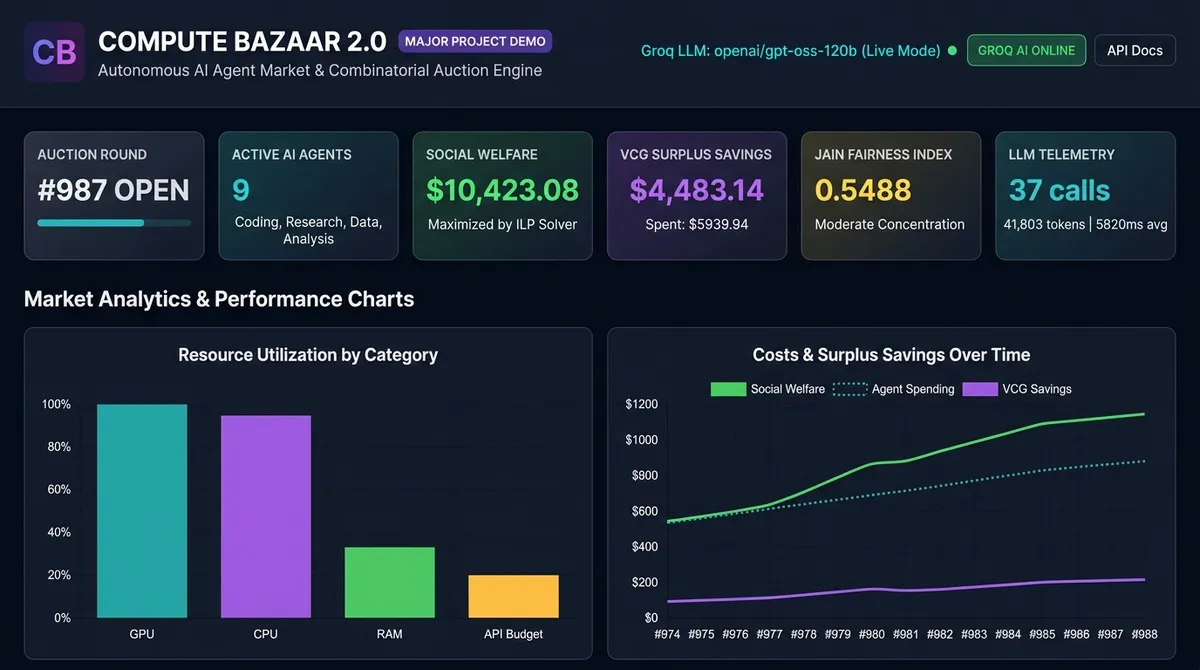
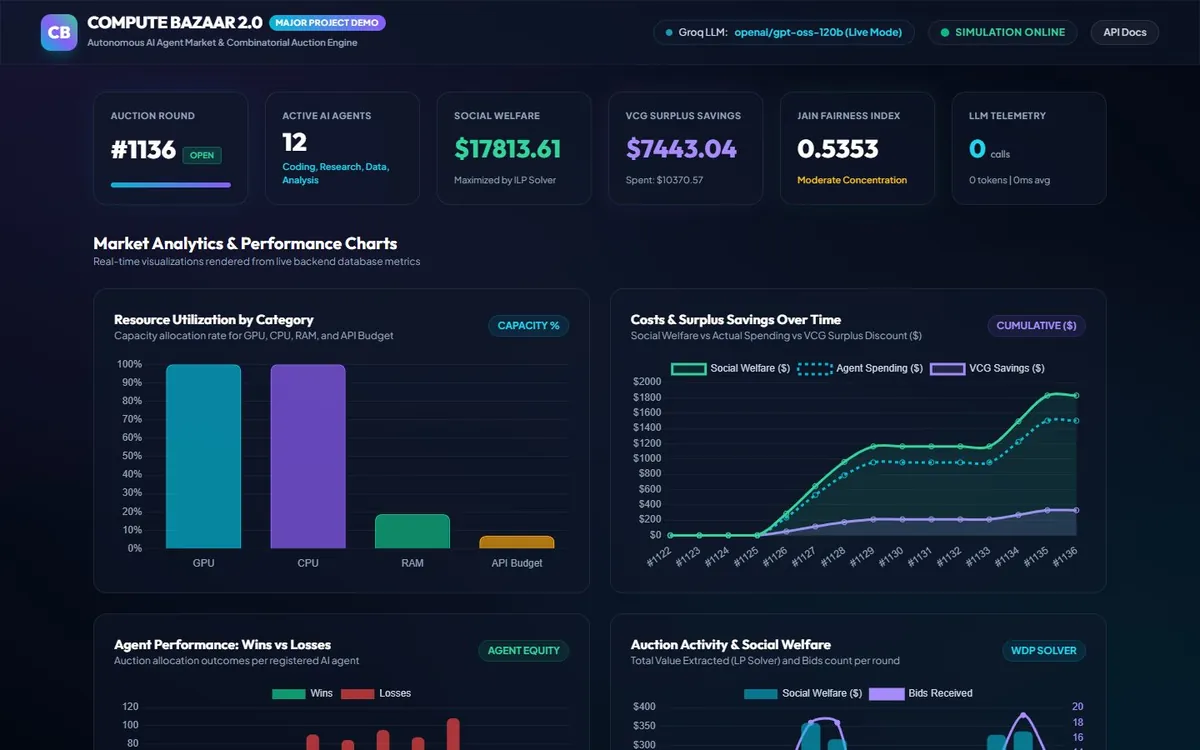
Compute Bazaar now describes the latest version of the repository
Estimated-value mechanisms, agent-level VCG with XOR menus, adaptive bidding,
scarcity pricing and the learned predictor replace the old 25-round summary,
with current results, their caveats and fresh dashboard screenshots.

diff --git a/src/data/projects.ts b/src/data/projects.ts
@@ -1,7 +1,8 @@
 import type { Project } from '@/types/content';
 
 /**
- * The six project planets, in the fixed order from the blueprint.
+ * The project planets: the six from the blueprint in their fixed order (GateOrchestra first),
+ * followed by later projects.
  * Every claim here was checked against the repository — see docs/PROJECT_AUDIT.md.
  */
 export const projects: Project[] = [
@@ -199,45 +200,58 @@ export const projects: Project[] = [
     id: 'compute-bazaar',
     order: 5,
     name: 'Compute Bazaar',
-    tagline: 'A combinatorial auction market where AI agents bid for compute',
+    tagline: 'A combinatorial compute market for LLM agents that only estimate what their tasks are worth',
     repo: 'https://github.com/MuzraFatima/Compute-bazar',
     team: false,
     overview:
-      'An AI-agent compute marketplace where agents place budget-aware bundle bids for GPU, CPU, RAM and API budget, and allocation is solved as a combinatorial auction with VCG pricing.',
+      'A multi-agent marketplace where autonomous AI agents bid for bundles of GPU, CPU, memory and LLM API budget. Allocation is solved exactly as a multi-unit combinatorial auction with agent-level VCG pricing, and the mechanism is redesigned for the case LLM bidders create: values that are estimated, not known.',
     problem:
-      'Queue-based schedulers block high-value jobs behind early arrivals, and per-unit spot markets can leave agents holding half a bundle they cannot use.',
+      'AI agents increasingly compete for the same scarce compute. Queues and per-unit spot markets block high-value jobs or leave agents holding half a bundle, and classic truthful auctions assume bidders know their own value, which LLM agents do not.',
     solution:
-      'Treat allocation as a winner-determination problem solved by binary integer linear programming, with VCG Clarke-pivot pricing so truthful bidding pays off, plus fairness tracking against starvation.',
+      "Solve winner determination exactly with integer programming, charge agent-level VCG (a Clarke pivot over all of an agent's bids), and let each task bid a calibrated, risk-adjusted XOR menu of reservation sizes priced at calibrated value × empirical success probability.",
     architecture: [
-      'Agent layer: Coding, Research, Data and Analysis agents with optional Groq reasoning',
-      'Auction engine: PuLP / CBC ILP solver and VCG pricing',
-      'Marketplace with scarcity pricing and a fairness tracker',
-      'FastAPI gateway with JWT / API-key auth and a WebSocket feed',
-      'SQLAlchemy persistence and a Chart.js dashboard',
+      'LLM agents (Groq): value estimate and resource-need forecast with 90% intervals',
+      'Bids: resource bundles with quantities and optional XOR menus of reservation sizes',
+      'Winner determination: exact multi-unit integer program (PuLP with CBC or HiGHS)',
+      'Pricing: agent-level VCG, execution-contingent VCG, core-selecting payments, tiers and reserves',
+      'Feedback: realised value and usage drive per-agent calibration, memory and fairness tracking',
+      'Serving: FastAPI, SQLAlchemy and WebSocket feeding a live dashboard',
     ],
     technologies: [
       'Python',
       'FastAPI',
       'Groq',
       'PuLP (ILP)',
-      'WebSocket',
+      'NumPy',
       'SQLAlchemy',
+      'WebSocket',
+      'JWT',
       'Chart.js',
       'Docker',
       'pytest',
+      'Hypothesis',
     ],
     features: [
-      'Atomic bundle bids, so no agent is left with a partial allocation',
-      'VCG pricing with adaptive bidding strategies',
-      'Jain fairness index and anti-starvation guards',
-      'In a seeded 25-round simulation, the highest social welfare and utilisation of five schedulers (38% above round-robin)',
-      'Live WebSocket dashboard with a bidding ticker and round history',
+      'Autonomous Groq-powered Coding, Research, Data and Analysis agents that estimate value and bid; a rule-based mode runs offline',
+      'Exact combinatorial auction with XOR menus; winner determination stays around a second at 400 bids',
+      'Agent-level VCG with 0 profitable deviations in 40,000 misreport searches, against 7.3% exploitable for the common per-bid shortcut',
+      'Adaptive bidding strategies: truthful, budget-aware shading, urgency, Q-learning and contextual bandits',
+      'Scarcity-based dynamic reserve pricing, tier discounts and budget checks',
+      'Learned resource predictor: runtime error down from 232% to 21.7% MAPE, with 90% intervals covering 89% of outcomes',
+      'Live FastAPI dashboard over WebSocket, with JWT and API-key authentication',
+      'Evaluation framework: trace-driven cluster simulator, property-based mechanism tests and one-command reproduction',
     ],
-    contribution: ['Sole author: auction engine, agents, API, dashboard and benchmarks'],
+    contribution: [
+      'Sole author: auction engine and mechanism design, LLM agents, resource predictor, cluster simulator, API, dashboard and experiments',
+    ],
     images: [
       {
         src: `${import.meta.env.BASE_URL}assets/images/projects/computebazaar-hero.webp`,
-        alt: 'Compute Bazaar dashboard with live market metrics and utilisation charts',
+        alt: 'Compute Bazaar live dashboard with market KPIs and analytics',
+      },
+      {
+        src: `${import.meta.env.BASE_URL}assets/images/projects/computebazaar-charts.webp`,
+        alt: 'Compute Bazaar market charts',
       },
       {
         src: `${import.meta.env.BASE_URL}assets/images/projects/computebazaar-ticker.webp`,
@@ -246,6 +260,62 @@ export const projects: Project[] = [
     ],
     palette: ['#fb923c', '#9333ea', '#3b82f6'],
     visual: 'Interplanetary compute marketplace: resource stations and agent bidding displays.',
+    deepDive: {
+      whyItMatters:
+        'As more work is done by LLM agents, compute becomes something agents negotiate for. A mechanism that is truthful on paper can lose welfare or break individual rationality once its bidders misjudge their own value, so the allocation rules have to be designed for estimated values.',
+      pipeline: [
+        { label: 'Task', detail: 'A natural-language task arrives' },
+        { label: 'LLM agent', detail: 'A Groq agent estimates value and resource needs with a 90% interval' },
+        { label: 'Bids', detail: 'Bundles × quantities, optionally an XOR menu of reservation sizes' },
+        { label: 'Winner determination', detail: 'Exact multi-unit integer program (PuLP, CBC / HiGHS)' },
+        {
+          label: 'Pricing',
+          detail: 'Agent-level VCG with parallel counterfactual solves, reserves and tiers',
+        },
+        { label: 'Execution', detail: 'Realised value and usage update calibration, memory and fairness' },
+        { label: 'Dashboard', detail: 'FastAPI, SQLAlchemy and a WebSocket feed to the live dashboard' },
+      ],
+      methodology: [
+        'Winner determination as a binary integer program with capacity and XOR constraints',
+        'Clarke-pivot VCG computed per agent, with counterfactual solves run in parallel',
+        'Calibrated value estimates and empirical success probabilities feeding risk-adjusted XOR menus',
+        'Learning bidders (Hedge, Q-learning, contextual bandits) and live Groq LLM bidders in repeated auctions',
+        'Trace-shaped GPU cluster simulation (Alibaba-PAI-like workloads) against FIFO, DRF and a Themis-style scheduler',
+      ],
+      innovations: [
+        "Shows that only the heterogeneous part of agents' value bias costs welfare",
+        'Risk-adjusted XOR menus, which provably maximise expected realised welfare',
+        'A correct agent-level VCG, with evidence that the common per-bid shortcut is manipulable',
+        'A fairness knob (an affine maximiser) that trades welfare for finish-time fairness while staying truthful',
+      ],
+      results: [
+        {
+          value: '78.0%',
+          label: 'of oracle welfare with calibrated XOR menus',
+          note: 'vs 72.1% for VCG on point estimates; 3 seeds × 200 rounds',
+        },
+        { value: '0 of 40,000', label: 'profitable misreports under agent-level VCG' },
+        {
+          value: '7 policies',
+          label: 'compared on GPU traces; the auction has the highest welfare',
+          note: 'its margin over greedy is within seed variance',
+        },
+        { value: '21.7%', label: 'MAPE of the learned resource predictor', note: 'down from 232%' },
+      ],
+      status: {
+        implemented: [
+          'Working system: FastAPI backend, live dashboard, rule-based and Groq agent modes',
+          'Auction engine with VCG, execution-contingent and core-selecting payments; resource predictor; cluster simulator',
+          'One-command reproduction of every result; lint and tests in CI on Python 3.11 and 3.12',
+        ],
+        research: ['Paper draft with propositions and proofs'],
+        limits: [
+          'The estimated-value agents are a parametric model of LLM miscalibration, and the cluster workload is calibrated to the PAI trace rather than replayed',
+          'The live LLM study is small because of Groq free-tier limits',
+          'Single-node deployment (SQLite by default)',
+        ],
+      },
+    },
   },
   {
     id: 'jocky',
@@ -284,6 +354,123 @@ export const projects: Project[] = [
     images: [],
     palette: ['#ef4444', '#1e3a8a', '#cbd5e1'],
     visual: 'Digital investigation station: evidence vaults, integrity scanner and telemetry displays.',
+  },
+  {
+    id: 'horizonguard',
+    order: 7,
+    name: 'HorizonGuard',
+    tagline: 'Recoverability-aware early warning of goal drift in long-horizon AI agents',
+    repo: 'https://github.com/MuzraFatima/HorizonGuard',
+    team: false,
+    overview:
+      'An AI-safety research system that watches a long-running agent step by step, forecasts whether it is drifting from its goal, and predicts whether a corrective intervention would rescue the run or disrupt it. It acts only when the rescue wins, and certifies how often its own interventions cause harm.',
+    problem:
+      'Agents on long tasks can drift away from their intended goal. Most monitors only predict failure, and an accurate predictor can still make agents worse: a reminder fired at the wrong moment can break a run that was going to succeed.',
+    solution:
+      'Model each run as moving between aligned, drifting and violated states, predict for every intervention strength whether it would rescue or disrupt the run, take the action with the best rescue − 2 × disruption (or wait), and bound the disruption rate with conformal risk control.',
+    architecture: [
+      'Trajectory logging: observable step records from the agent',
+      'Step encoder: feature-hashing action embeddings with goal-relative geometry',
+      'Multi-state hazard model: drift onset, violation and recovery as competing transitions',
+      'Effect model: rescue vs disruption for four intervention strengths',
+      'Certificates: conformal risk control, Learn-then-Test and a betting e-process',
+      'Serving: a live monitor and HTTP API, with a React and Vite dashboard',
+    ],
+    technologies: [
+      'Python',
+      'NumPy',
+      'SciPy',
+      'PyYAML',
+      'React',
+      'TypeScript',
+      'Vite',
+      'pytest',
+      'Puppeteer',
+      'Docker',
+    ],
+    features: [
+      'DriftBench-CF: counterfactual fork labels in which every arm shares the same seeds, so rescue and disruption are measurable for each prefix',
+      'Live monitor that turns each step into risk, drift belief, net benefit per intervention and a certified decision',
+      'Effect-aware policy choosing between a reminder, restatement, constraint gate or escalation, or waiting',
+      'Disruption-controlled guarantees: 0 of 200 resamples above the target rate, keeping 96% of rescues',
+      'Transfer tests on unseen agent families and environments, plus a gated stealth-drift stress test in simulation',
+      'Dashboard with live monitor, run replay, closed-loop A/B and guarantees pages; 218 Python tests and a Chrome end-to-end suite',
+    ],
+    contribution: [
+      'Sole author: benchmark and fork engine, models, guarantees, live monitor, dashboard and the preregistered study',
+    ],
+    images: [
+      {
+        src: `${import.meta.env.BASE_URL}assets/images/projects/horizonguard-overview.webp`,
+        alt: 'HorizonGuard dashboard overview with closed-loop A/B results',
+      },
+      {
+        src: `${import.meta.env.BASE_URL}assets/images/projects/horizonguard-live-monitor.webp`,
+        alt: 'HorizonGuard live monitor scoring an agent step by step',
+      },
+      {
+        src: `${import.meta.env.BASE_URL}assets/images/projects/horizonguard-ab-test.webp`,
+        alt: 'HorizonGuard closed-loop A/B test across seed-paired runs',
+      },
+    ],
+    palette: ['#d9b26a', '#4f6f41', '#f3e2b3'],
+    visual: 'A ringed sentinel world with watch satellites: an observatory for drifting agents.',
+    deepDive: {
+      whyItMatters:
+        'Long-horizon agents are being given more autonomy, and a monitor that interrupts at the wrong time can cause the very failures it is meant to prevent. Knowing when an intervention helps, and bounding how often it harms, is what makes monitoring safe to deploy.',
+      pipeline: [
+        { label: 'Agent', detail: 'A long-horizon agent acts in an environment' },
+        { label: 'Trajectory log', detail: 'Observable step records only: a black-box view of the agent' },
+        { label: 'Embeddings', detail: 'Feature-hashing step encoder and goal-relative geometry' },
+        { label: 'Hazard model', detail: 'Aligned, drifting and violated states, with recovery' },
+        { label: 'Effect model', detail: 'Rescue vs disruption for each intervention strength' },
+        {
+          label: 'Certificate',
+          detail: 'Disruption risk ≤ α via conformal risk control and Learn-then-Test',
+        },
+        { label: 'Policy', detail: 'Intervene only when rescue − 2 × disruption is best; otherwise wait' },
+      ],
+      methodology: [
+        'Fork engine: snapshot a run prefix and branch seed-paired continuations with and without each intervention',
+        'Sequential, per-step scoring of agent trajectories from black-box action embeddings',
+        'Temporal modelling of drift onset, violation and recovery as a multi-state hazard',
+        'Effect learners that predict rescue and disruption per intervention strength',
+        'Conformal risk control and Learn-then-Test on run-level disruption, plus an e-process for time-uniform false alarms',
+        'Models written from scratch in NumPy and SciPy (logistic, softmax and ridge regression), compared with Markov, trajectory-feature and anomaly-detection baselines',
+      ],
+      innovations: [
+        'Asks not only "will this agent drift?" but "is it still fixable, and will fixing it help more than it hurts?"',
+        'Counterfactual rescue and disruption labels from seed-paired forks',
+        "A certified bound on how often the monitor's own interventions cause harm",
+        'Preregistered research questions, with negative results reported alongside the positive ones',
+      ],
+      results: [
+        {
+          value: '65% → 10%',
+          label: 'goal-violation rate, no monitor vs HorizonGuard',
+          note: 'unseen environment and agent family, 40 seeds; a probability-only alarm reaches 40%',
+        },
+        { value: '25 vs 11', label: 'runs rescued vs a probability-only alarm', note: '3 vs 1 disrupted' },
+        { value: '0 of 200', label: 'resamples above the disruption target', note: '96% of rescues kept' },
+        { value: '0.03', label: 'median AUROC drop on unseen agent families' },
+      ],
+      status: {
+        implemented: [
+          'DriftBench-CF generation, fork engine, hazard and effect models, certificates, transfer and stress studies',
+          'Live monitor, HTTP API and dashboard; one-command reproduction with a Makefile and Docker',
+          '218 Python tests in CI on Python 3.10 and 3.12, and a Chrome end-to-end suite for the dashboard',
+        ],
+        research: [
+          'Learned (sentence-embedding) action encoders: the encoder interface is in place, while the shipped encoder uses feature hashing',
+          'Validation on real LLM agents: a seeded, cached LLM-agent wrapper exists, but every reported result uses synthetic agents',
+          'Benchmark and method papers, in draft',
+        ],
+        limits: [
+          'All drift is studied in simulation, so the numbers describe the method, not any real model',
+          'Not supported by the data: a lead-time gain from the hazard model (−1.5 steps) and a simple lead-time scaling law',
+        ],
+      },
+    },
   },
 ];
 

diff --git a/src/types/content.ts b/src/types/content.ts
@@ -28,11 +28,44 @@ export interface Profile {
   publication: Publication;
 }
 
-export type ProjectId = 'gateorchestra' | 'whototrust' | 'neurolens' | 'caar' | 'compute-bazaar' | 'jocky';
+export type ProjectId =
+  'gateorchestra' | 'whototrust' | 'neurolens' | 'caar' | 'compute-bazaar' | 'jocky' | 'horizonguard';
 
 export interface ProjectImage {
   src: string;
   alt: string;
+}
+
+/** A stage of a project's pipeline, drawn as the architecture diagram in the project detail view. */
+export interface PipelineStage {
+  label: string;
+  detail: string;
+}
+
+export interface ProjectResult {
+  value: string;
+  label: string;
+  /** Caveat or comparison that must travel with the number. */
+  note?: string;
+}
+
+/**
+ * The deeper explanation shown in a project's detail view. Optional: projects without it still
+ * get a detail view built from their core fields.
+ */
+export interface ProjectDeepDive {
+  whyItMatters: string;
+  pipeline: PipelineStage[];
+  methodology: string[];
+  innovations: string[];
+  results?: ProjectResult[];
+  status: {
+    /** Working, tested functionality in the repository. */
+    implemented: string[];
+    /** Research directions or work in progress, kept separate from what is implemented. */
+    research?: string[];
+    limits?: string[];
+  };
 }
 
 export interface Project {
@@ -60,6 +93,7 @@ export interface Project {
   palette: string[];
   /** Short description of the planet's visual identity. */
   visual: string;
+  deepDive?: ProjectDeepDive;
 }
 
 export type SkillLevel = 'Proficient' | 'Intermediate' | 'Beginner';
